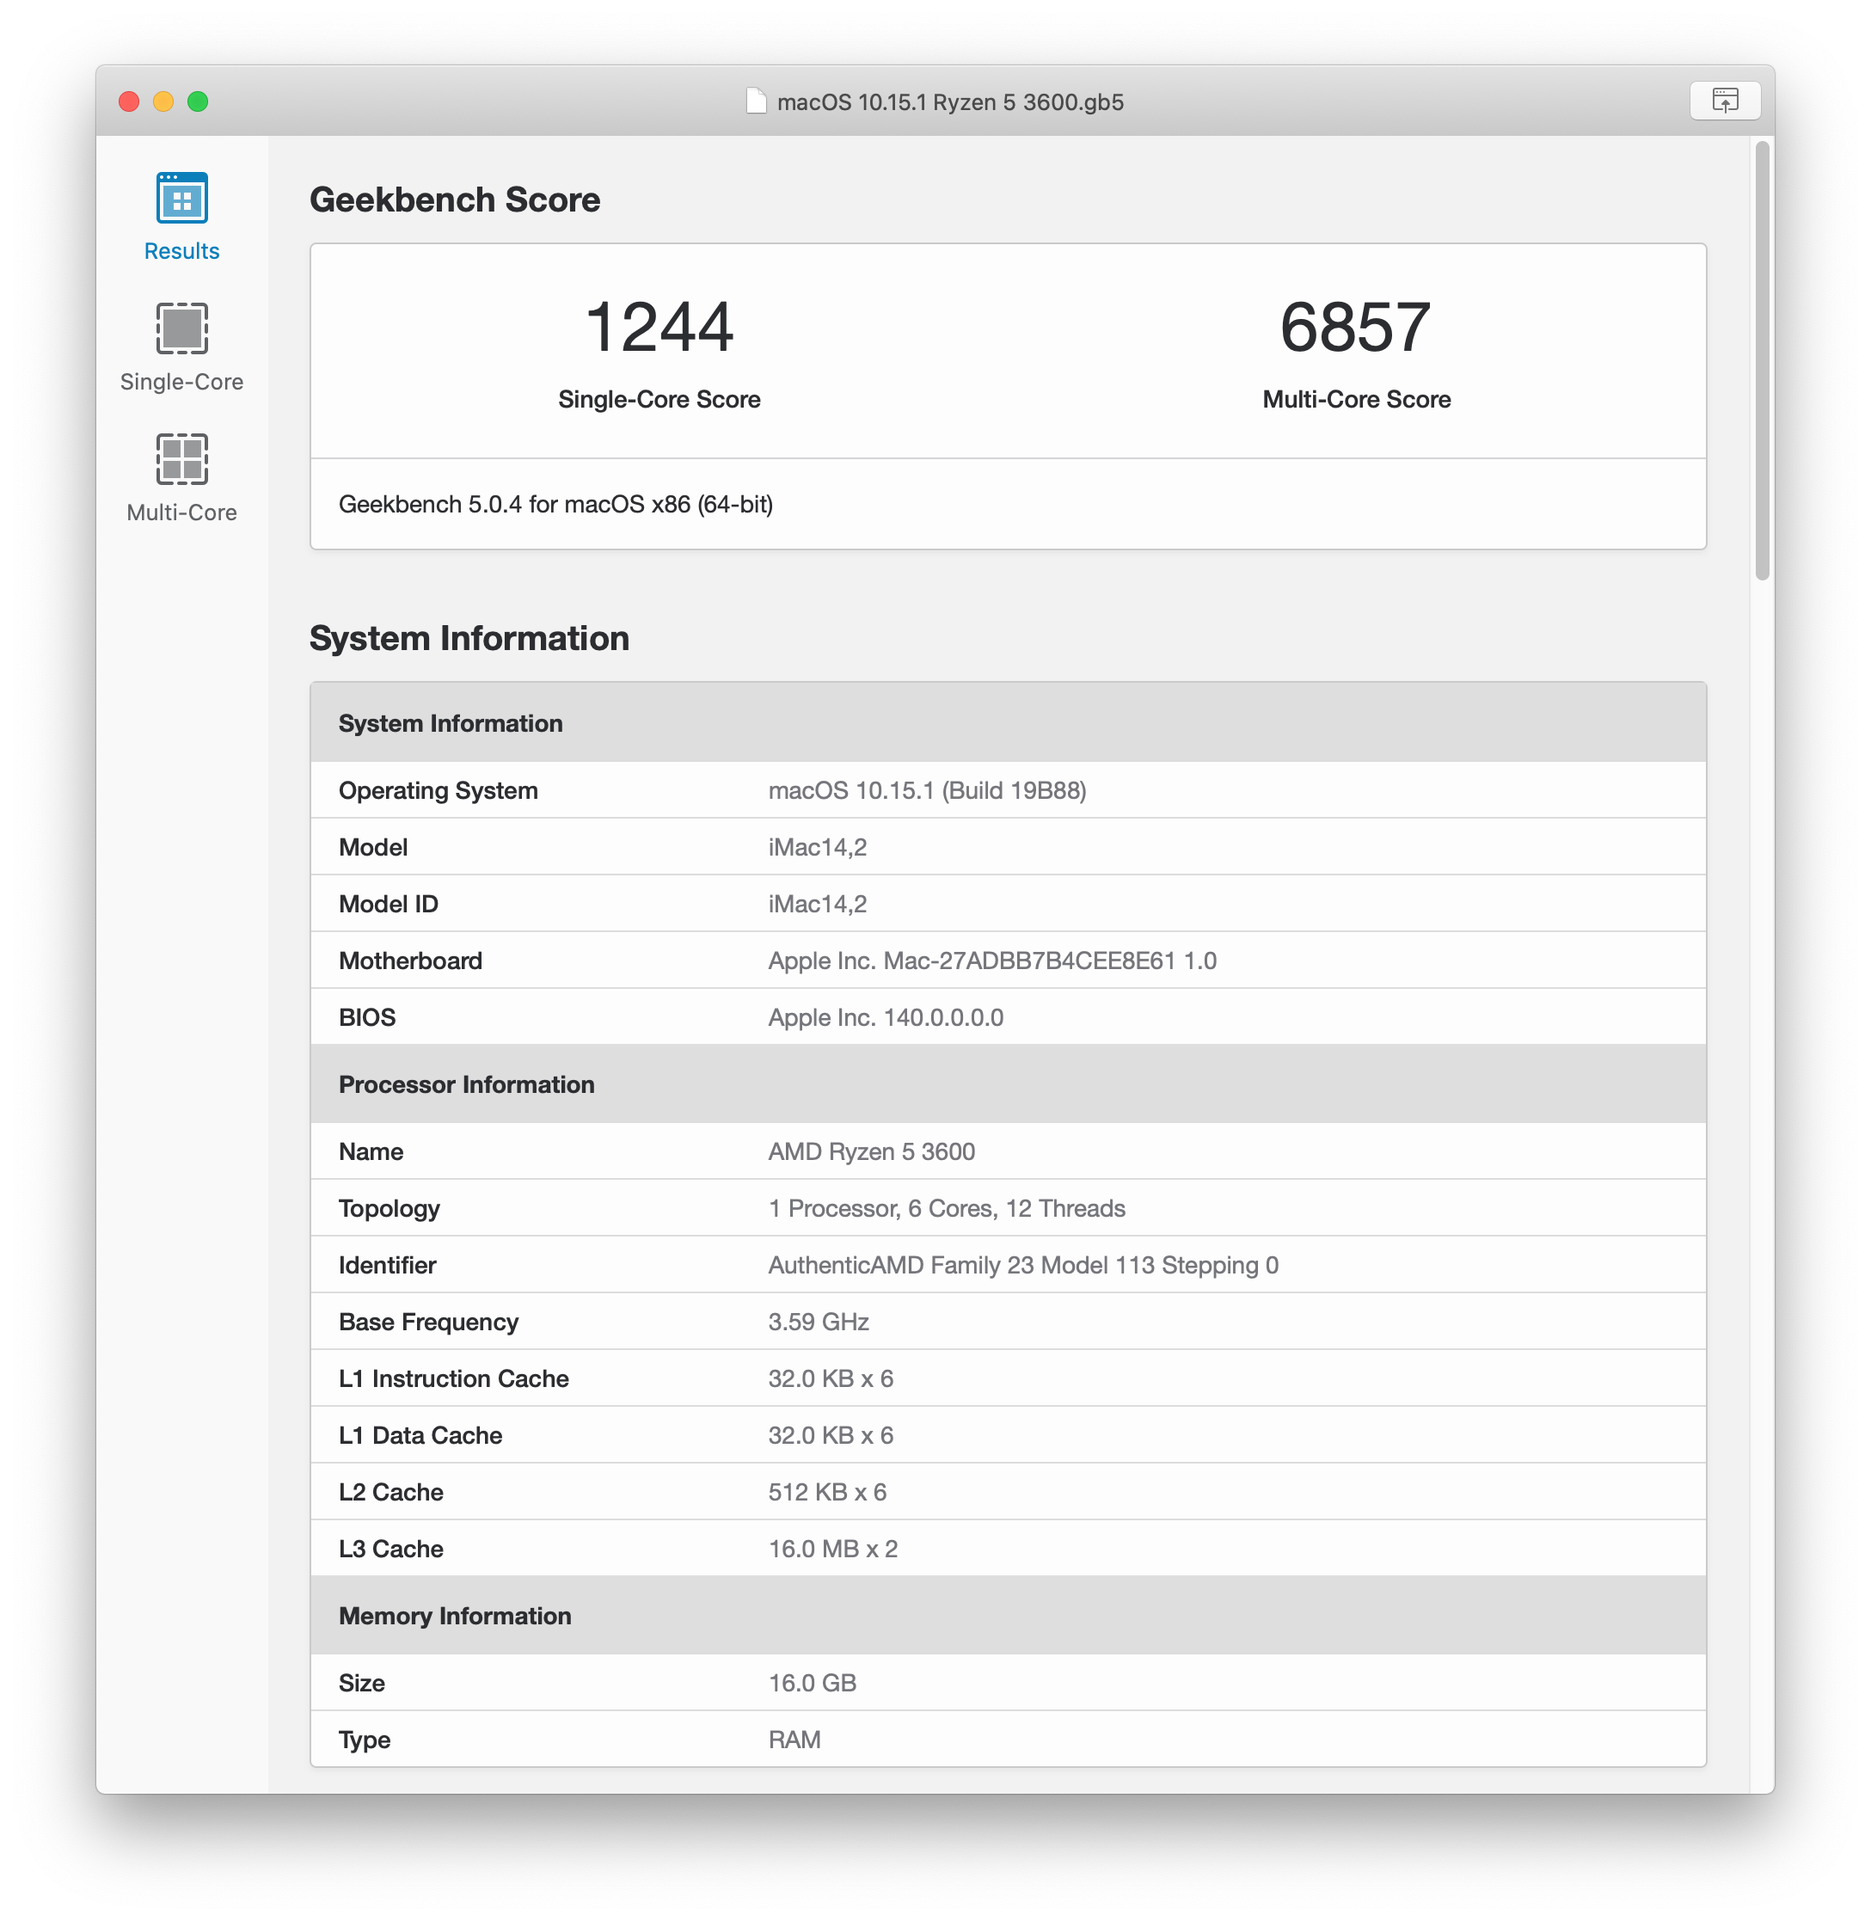
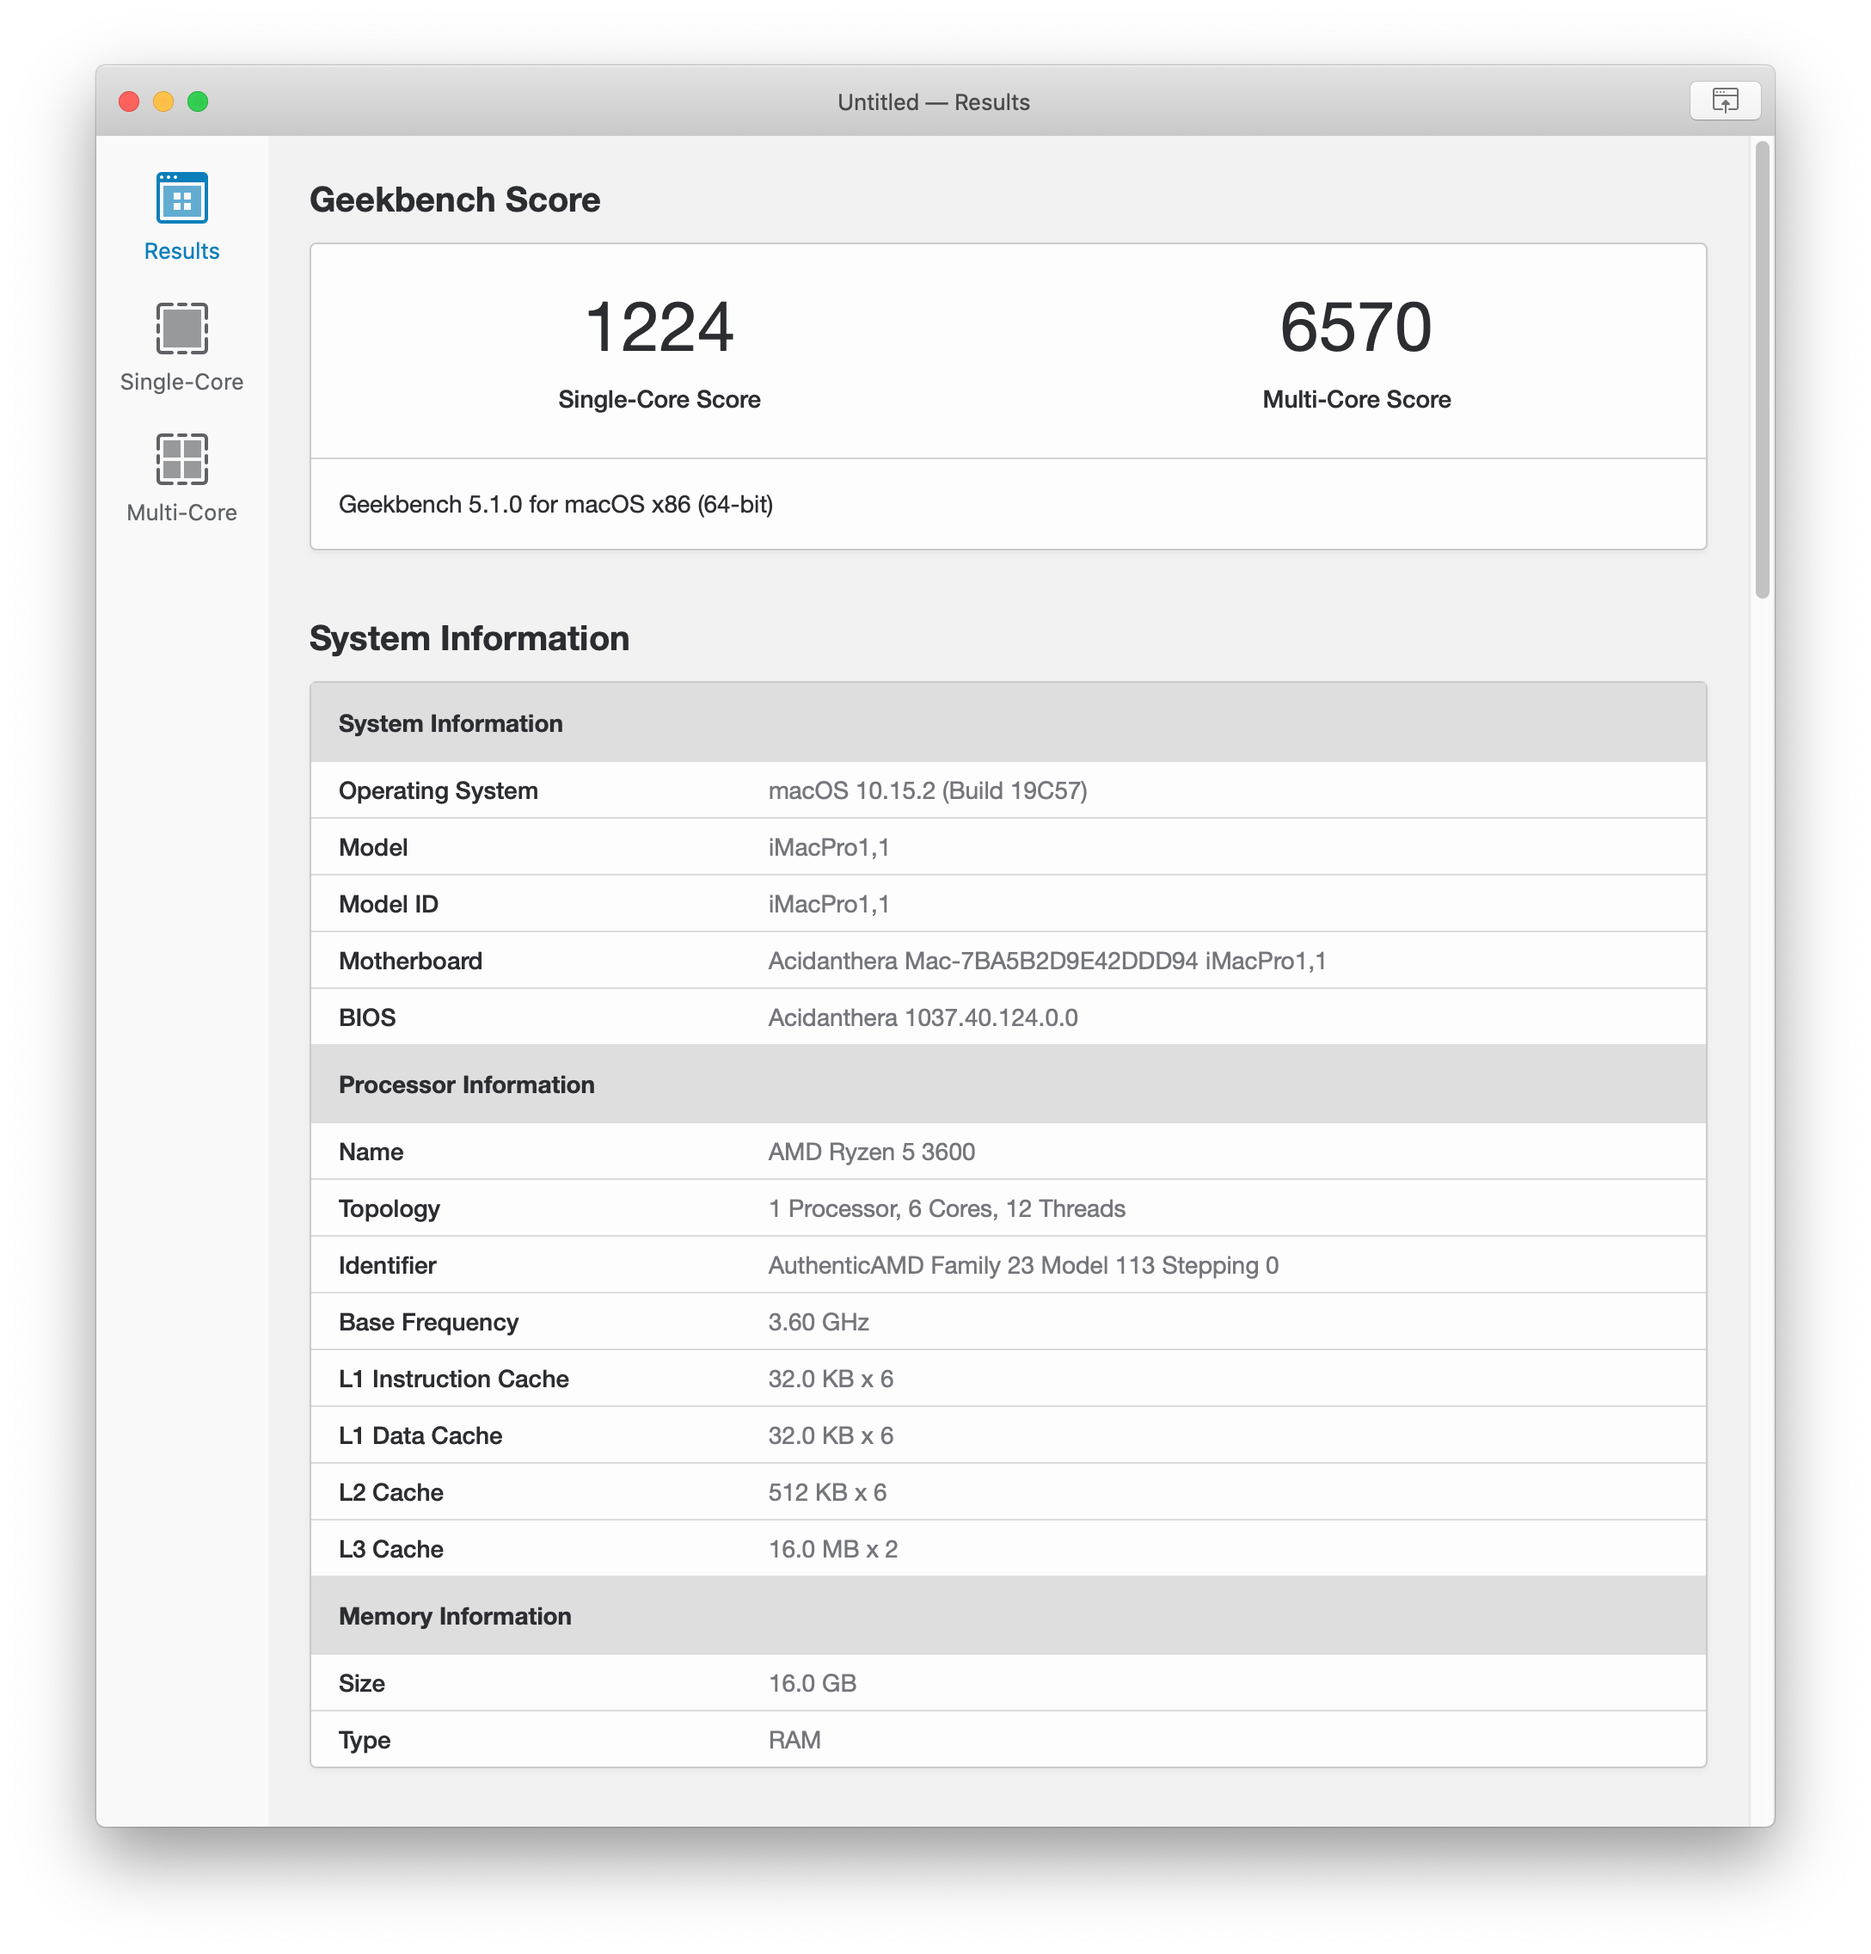
update geekbench scores

diff --git a/Docs/Benchmark.md b/Docs/Benchmark.md
@@ -1,25 +1,25 @@
 Geekbench 5
 ================
 
-Benchmarks with Geekbench 5.0.4
+Benchmarks with Geekbench 5.1.0
 
 ## System Info
 <img src="https://github.com/mipxx/OpenCoreEFI/blob/master/Docs/Benchmark/Geekbench_5_System_Info.png" width="652" height="689"/>
 
 ## CPU Score
-<img src="https://github.com/mipxx/OpenCoreEFI/blob/master/Docs/Benchmark/Geekbench_5_CPU_Score.png" width="544" height="559"/>
+<img src="https://github.com/mipxx/OpenCoreEFI/blob/master/Docs/Benchmark/Geekbench_5_CPU_Score.png" width="544" height="568"/>
 
-[GeekBench Browser](https://browser.geekbench.com/v5/cpu/707669)
+[GeekBench Browser](https://browser.geekbench.com/v5/cpu/875974)
 
 ## GPU Score OpenCL
 <img src="https://github.com/mipxx/OpenCoreEFI/blob/master/Docs/Benchmark/Geekbench_5_GPU_OpenCL_Score.png" width="544" height="555"/>
 
-[GeekBench Browser](https://browser.geekbench.com/v5/compute/295125)
+[GeekBench Browser](https://browser.geekbench.com/v5/compute/370378)
 
 ## GPU Score Metal
 <img src="https://github.com/mipxx/OpenCoreEFI/blob/master/Docs/Benchmark/Geekbench_5_GPU_Metal_Score.png" width="544" height="555"/>
 
-[GeekBench Browser](https://browser.geekbench.com/v5/compute/295122)
+[GeekBench Browser](https://browser.geekbench.com/v5/compute/370387)
 
 LuxMark v3
 ================
